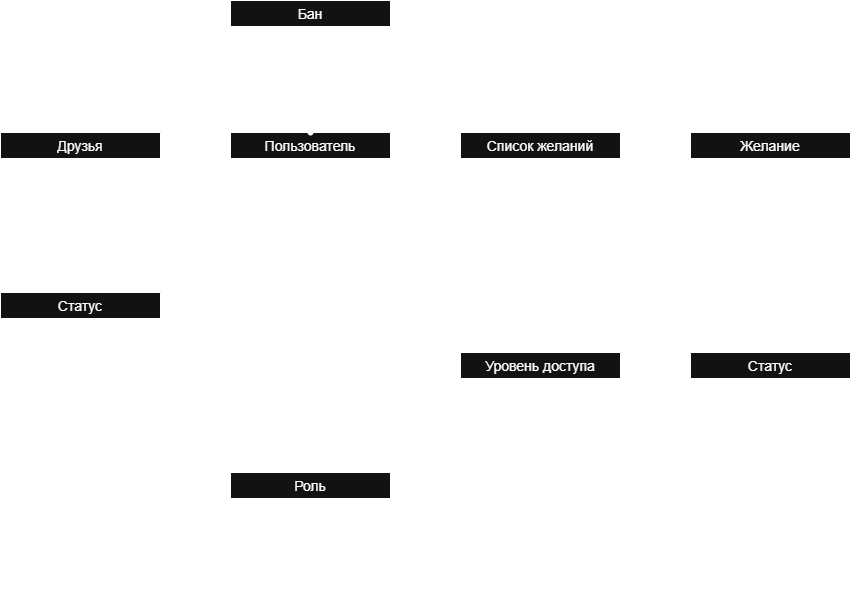
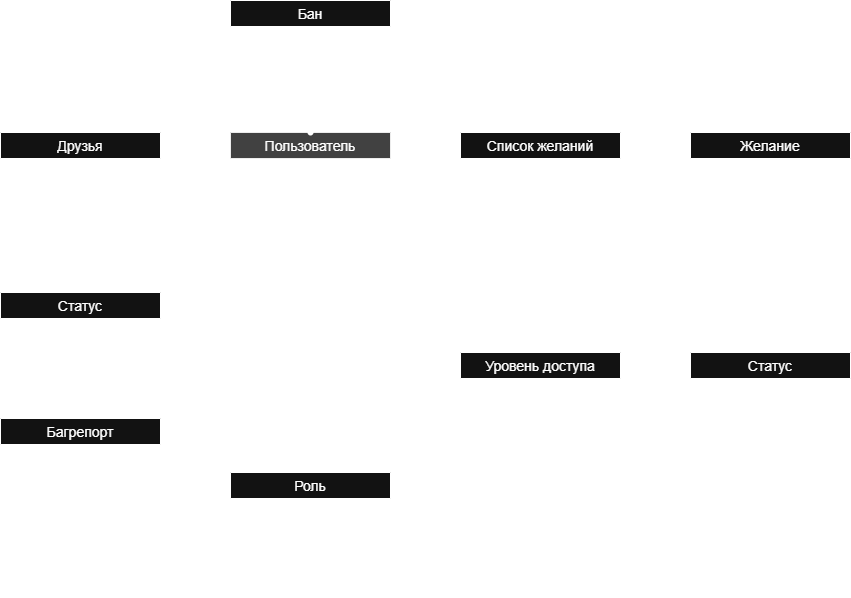
fix(doc): fix documentation

diff --git a/server/src/bugreport/bugreport.controller.ts b/server/src/bugreport/bugreport.controller.ts
@@ -53,7 +53,7 @@ export class BugreportController {
         const role = req.user.roles?.value;
         const br = await this.bugService.findById(id);
         if (br.userId !== userId && role !== 'admin') {
-            throw new ForbiddenException('Нет парв на просмотр этого списка')
+            throw new ForbiddenException('Нет прав на просмотр этого списка')
         }
 
         const p = br.get({plain: true}) as any;

diff --git a/server/src/bugreport/bugreport.service.ts b/server/src/bugreport/bugreport.service.ts
@@ -66,7 +66,7 @@ export class BugreportService {
     async findById(id: number): Promise<BugReport> {
         const br = await this.BugRepository.findByPk(id, {include: [{model: User, as: 'user', attributes: ['id', 'fullname', 'login', 'image']}]});
         if (!br) {
-            throw new NotFoundException(`Баг-репорт с id ${id} не найден`);
+            throw new NotFoundException(`Баг-репорт не найден`);
         }
 
         return br;

diff --git a/server/README.md b/server/README.md
@@ -160,11 +160,11 @@ eyJhbGciOiJIUzI1NiIsInR5cCI6IkpXVCJ9.eyJsb2dpbiI6ImRpbWEiLCJpZCI6MiwiZW1haWwiOiJ
 
 ![Концептуальная модель](Conceptual.png)
 
-Она строится вокруг пользователей, каждый из которых имеет логин, почту, хеш пароля, профильные поля (ФИО, фото, дату рождения, телефон, пол и соцсети), связан с ролью и с записью о бане. Заявки в друзья хранятся в отдельной таблице с отправителем, получателем и статусом из справочника FriendStatus, что позволяет отслеживать «pending», «accepted» или «rejected». Списки желаний содержат название, описание, при желании дату события, уровень доступа (public, private, linkOnly или friends) и опциональный UUID-токен для режима linkOnly, а сами желания связаны со списками через таблицу многие-ко-многим и имеют собственный статус (active, reserved, completed), цену, ссылку и изображение. При бронировании желания меняется его статус на «reserved» и фиксируется пользователь-бронирующий (bookedByUserId), а при завершении бронь снимается и статус переводится в «completed». Такая схема с явными внешними ключами и справочниками позволяет легко проверять права доступа и строить гибкую бизнес-логику на стороне сервера.
+Она строится вокруг пользователей, каждый из которых имеет логин, почту, хеш пароля, профильные поля (ФИО, фото, дату рождения, телефон, пол и соцсети), связан с ролью и с записью о бане. Заявки в друзья хранятся в отдельной таблице с отправителем, получателем и статусом из справочника FriendStatus, что позволяет отслеживать «pending», «accepted» или «rejected». Списки желаний содержат название, описание, при желании дату события, уровень доступа (public, private, linkOnly или friends) и опциональный UUID-токен для режима linkOnly, а сами желания связаны со списками через таблицу многие-ко-многим и имеют собственный статус (active, reserved, completed), цену, ссылку и изображение. При бронировании желания меняется его статус на «reserved» и фиксируется пользователь-бронирующий (bookedByUserId), а при завершении бронь снимается и статус переводится в «completed». Такая схема с явными внешними ключами и справочниками позволяет легко проверять права доступа и строить гибкую бизнес-логику на стороне сервера. Кроме того, введена сущность BugReport, которая позволяет любому пользователю — авторизованному (по JWT) или гостю — создавать отчёты об ошибках.
 
 ## Additional Functionality
 
-Дополнительные возможности включают публичный контроллер publicwishlist, позволяющий просматривать и редактировать списки без авторизации, если у пользователя есть правильный shareToken. Механизмы дублирования и копирования желаний позволяют быстро перенести или скопировать элемент из одного списка в другой. Кроме того, существует отдельный эндпоинт для получения всех забронированных желаний текущего пользователя, который возвращает не только базовую информацию, но и подробные данные о самом списке, о владельце списка и о бронирующем пользователе.
+Дополнительные возможности включают публичный контроллер publicwishlist, позволяющий просматривать и редактировать списки без авторизации, если у пользователя есть правильный shareToken. Механизмы дублирования и копирования желаний позволяют быстро перенести или скопировать элемент из одного списка в другой. Кроме того, существует отдельный эндпоинт для получения всех забронированных желаний текущего пользователя, который возвращает не только базовую информацию, но и подробные данные о самом списке, о владельце списка и о бронирующем пользователе. Также пользователям добавлена создавать багрепорты для отслеживания ошибок приложения.
 
 ## Errors
 
@@ -733,9 +733,300 @@ Authorization: Bearer <token>
 Authorization: Bearer <token>
 ```
 
+### Get a Bugreports by Id
+
+`GET /api/bugreport/:id`
+Получить баг репорт пользователя по id
+
+**Path Parametrs:**
+
+```makefile
+  id (number)
+```
+
+**Responses:**
+
+- 201:
+
+```json
+{
+    "id": 6,
+    "title": "Баг",
+    "description": "Не работает добавление желания",
+    "email": null,
+    "owner": {
+        "id": 2,
+        "fullname": null,
+        "login": "shaka",
+        "image": "4a303142-2242-4681-8329-fe9531a0edbb.jpg"
+    },
+    "createdAt": "2025-05-29T09:37:05.657Z",
+    "updatedAt": "2025-05-29T09:37:05.657Z"
+}
+```
+
+- 403:
+
+```json
+{
+  "statusCode": 403,
+  "message": "Нет прав на просмотр этого списка",
+  "error": "Forbidden"
+}
+```
+
+- 404:
+
+```json
+{
+  "statusCode": 404,
+  "message": "Баг-репорт не найден",
+  "error": "Forbidden"
+}
+```
+
 ### Get a List Your Bugreports
 
-`POST /api/`
+`GET /api/bugreport`
+Посмотреть все баг репорты одного пользователя (который авторизован)
+
+**Responses:**
+
+- 201:
+
+```json
+[
+    {
+        "id": 4,
+        "title": "Баг",
+        "description": "Не работает добавление желания",
+        "email": null,
+        "owner": {
+            "id": 2,
+            "fullname": null,
+            "login": "shaka",
+            "image": "4a303142-2242-4681-8329-fe9531a0edbb.jpg"
+        },
+        "createdAt": "2025-05-29T09:20:00.501Z",
+        "updatedAt": "2025-05-29T09:20:00.501Z"
+    },
+    {
+        "id": 6,
+        "title": "Баг",
+        "description": "Не работает добавление желания",
+        "email": null,
+        "owner": {
+            "id": 2,
+            "fullname": null,
+            "login": "shaka",
+            "image": "4a303142-2242-4681-8329-fe9531a0edbb.jpg"
+        },
+        "createdAt": "2025-05-29T09:37:05.657Z",
+        "updatedAt": "2025-05-29T09:37:05.657Z"
+    }
+]
+```
+
+### Get All Bugreports
+
+`GET /api/bugreport/all`
+Получить список всех багрепортов (только для администратора)
+
+**Responses:**
+
+- 201:
+
+```json
+[
+    {
+        "id": 4,
+        "title": "Баг",
+        "description": "Не работает добавление желания",
+        "email": null,
+        "owner": {
+            "id": 2,
+            "fullname": null,
+            "login": "shaka",
+            "image": "4a303142-2242-4681-8329-fe9531a0edbb.jpg"
+        },
+        "createdAt": "2025-05-29T09:20:00.501Z",
+        "updatedAt": "2025-05-29T09:20:00.501Z"
+    },
+    {
+        "id": 6,
+        "title": "Баг",
+        "description": "Не работает добавление желания",
+        "email": null,
+        "owner": {
+            "id": 3,
+            "fullname": null,
+            "login": "dima",
+            "image": "4a303142-2242-4681-8329-fe9531a0edbb.jpg"
+        },
+        "createdAt": "2025-05-29T09:37:05.657Z",
+        "updatedAt": "2025-05-29T09:37:05.657Z"
+    }
+]
+```
+
+- 403:
+
+```json
+{
+  "statusCode": 403,
+  "message": "Нет прав на просмотр этого списка",
+  "error": "Forbidden"
+}
+```
+
+- 404:
+
+```json
+{
+  "statusCode": 404,
+  "message": "Баг-репорт не найден",
+  "error": "Forbidden"
+}
+```
+
+### Create Bagreport
+
+`POST /api/bugreport`
+Создать багрепорт (может как авторизованный, так и неавторизованный пользователи)
+
+**Request Body:**
+
+```json
+{
+    "title": "string",
+    "description": "string",
+    "email?": "string"
+}
+```
+
+**Responses:**
+
+- 201:
+
+```json
+{
+    "id": 12,
+    "title": "Баг",
+    "description": "Не работает добавление желания",
+    "email": null,
+    "owner": {
+        "id": 2,
+        "fullname": null,
+        "login": "shaka",
+        "image": "4a303142-2242-4681-8329-fe9531a0edbb.jpg"
+    },
+    "createdAt": "2025-05-29T11:23:09.150Z",
+    "updatedAt": "2025-05-29T11:23:09.150Z"
+}
+```
+
+### Edit Bugreport
+
+`PATCH /api/bugreport/:id`
+Редактировать багрепорт (может только автор)
+
+**Path Parametrs:**
+
+```makefile
+  id (number)
+```
+
+**Request Body:**
+
+```json
+{
+    "title?": "string",
+    "description?": "string",
+    "email?": "string"
+}
+```
+
+**Responses:**
+
+- 201:
+
+```json
+{
+    "id": 12,
+    "title": "Баг",
+    "description": "Не работает добавление желания",
+    "email": null,
+    "owner": {
+        "id": 2,
+        "fullname": null,
+        "login": "shaka",
+        "image": "4a303142-2242-4681-8329-fe9531a0edbb.jpg"
+    },
+    "createdAt": "2025-05-29T11:23:09.150Z",
+    "updatedAt": "2025-05-29T11:23:09.150Z"
+}
+```
+
+- 403:
+
+```json
+{
+  "statusCode": 403,
+  "message": "Редактировать может только автор",
+  "error": "Forbidden"
+}
+```
+
+- 404:
+
+```json
+{
+  "statusCode": 404,
+  "message": "Баг-репорт не найден",
+  "error": "Forbidden"
+}
+```
+
+### Delete Bugreport
+
+`DELETE /api/bugreport/:id`
+Удалять баг репорт (может либо автор, либо администратор)
+
+**Path Parametrs:**
+
+```makefile
+  id (number)
+```
+
+**Responses:**
+
+- 201:
+
+```json
+{
+    "message": "Баг репорт удален"
+}
+```
+
+- 403:
+
+```json
+{
+  "statusCode": 403,
+  "message": "Нет прав на удаление этого баг-репорта",
+  "error": "Forbidden"
+}
+```
+
+- 404:
+
+```json
+{
+  "statusCode": 404,
+  "message": "Баг-репорт не найден",
+  "error": "Forbidden"
+}
+```
 
 ---
 
